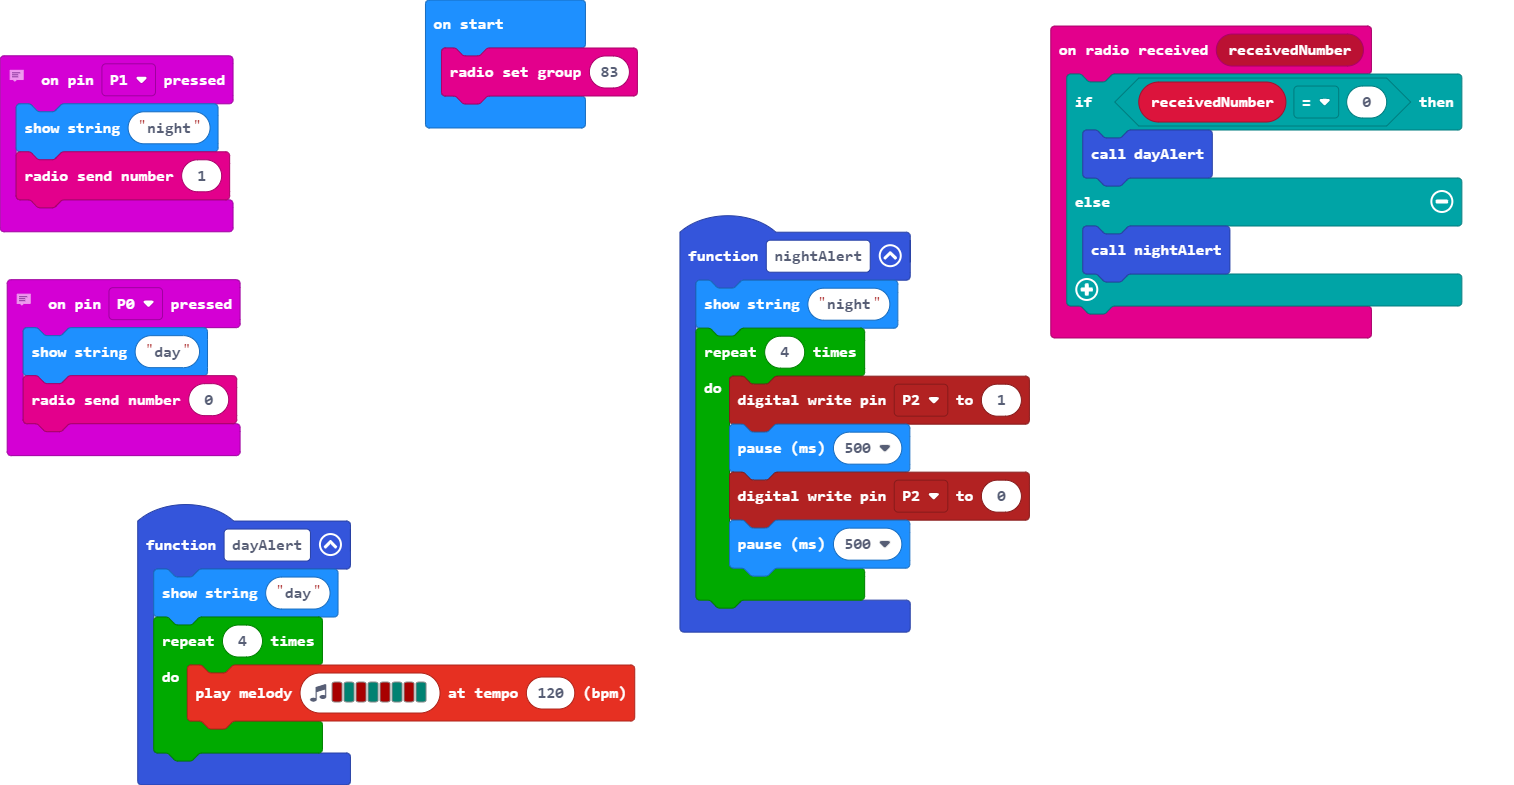
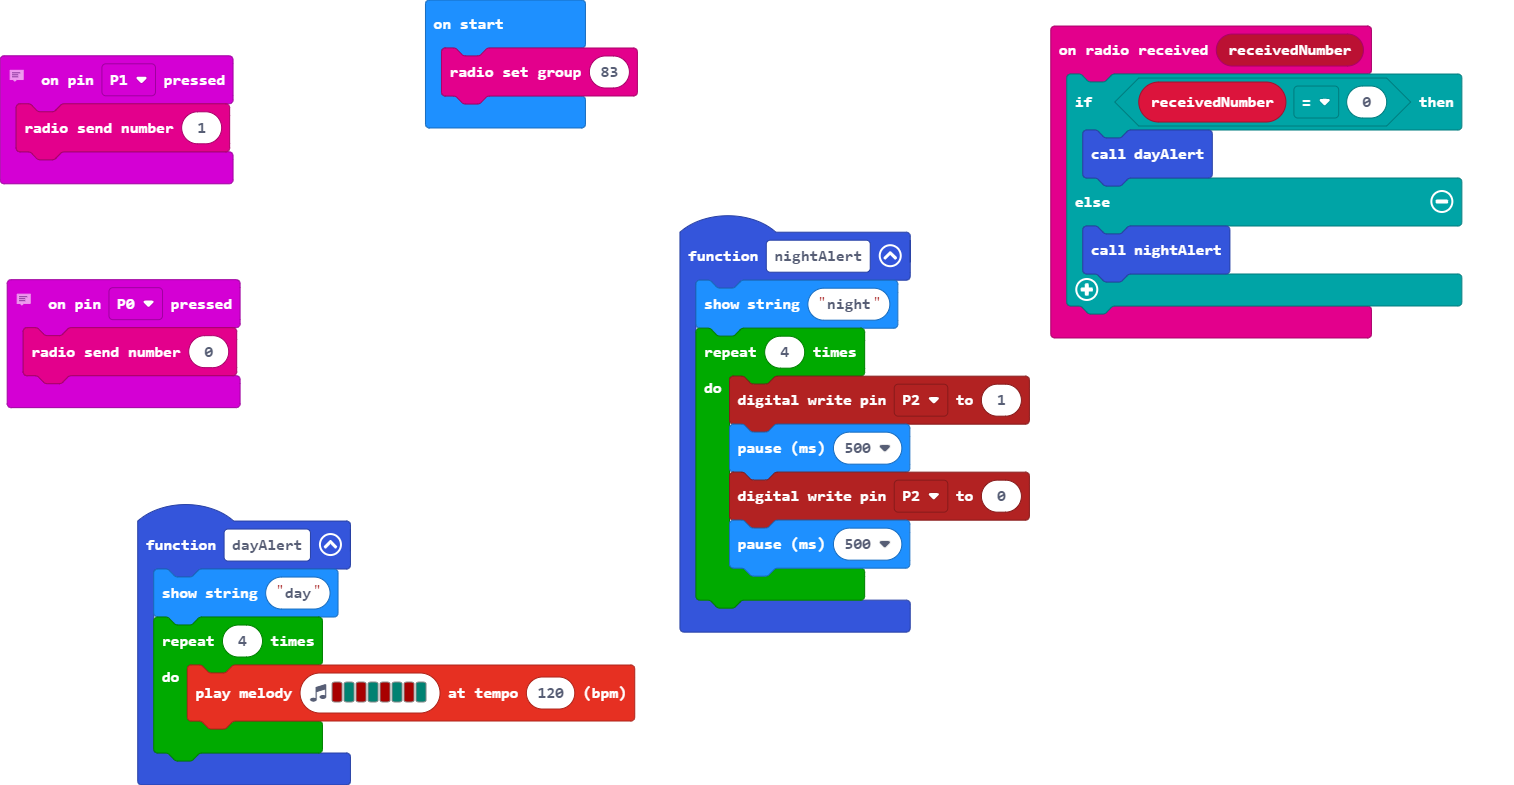
Update main.blocks, main.ts

Changed region(s): [[0.0, 0.3975, 0.1863, 0.5809], [0.0, 0.1223, 0.1552, 0.3057]]

diff --git a/main.ts b/main.ts
@@ -1,6 +1,5 @@
 // daytime button
 input.onPinPressed(TouchPin.P0, function () {
-    basic.showString("day")
     radio.sendNumber(0)
 })
 radio.onReceivedNumber(function (receivedNumber) {
@@ -27,7 +26,6 @@ function dayAlert () {
 }
 // nighttime button
 input.onPinPressed(TouchPin.P1, function () {
-    basic.showString("night")
     radio.sendNumber(1)
 })
 radio.setGroup(83)
